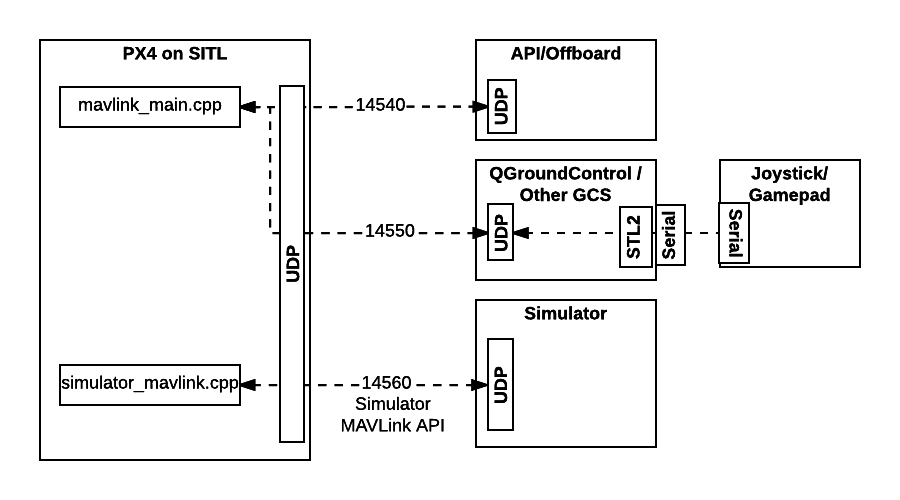
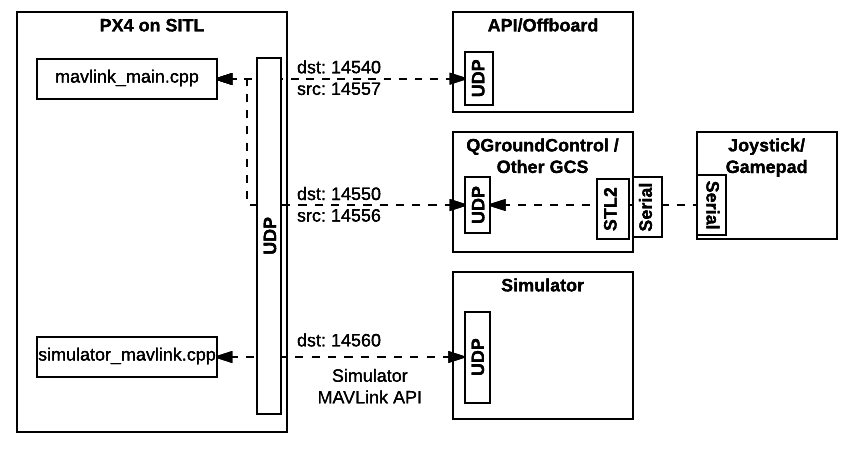
Update SITL env doc and tidy explanations

Changed region(s): [[0.0, 0.0, 0.972, 0.9559]]

diff --git a/en/simulation/README.md b/en/simulation/README.md
@@ -20,8 +20,11 @@ Simulator |Description
 [AirSim](../simulation/airsim.md) | A cross platform simulator that provides physically and visually realistic simulations. This simulator is resource intensive, and requires a very significantly more powerful computer than the other simulators described here. <p><strong>Supported Vehicles:</strong> Iris (MultiRotor model and a configuration for PX4 QuadRotor in the X configuration).</p>
 [XPlane](../simulation/hitl.md) (HITL only)| A comprehensive and powerful fixed-wing flight simulator that offers very realistic flight models.<br><p><strong>Supported Vehicles:</strong> Plane</p>
 
+Instructions for how to setup and use the simulators are in the topics linked above.
 
-Instructions for how to setup and use the simulators are in the topics linked above. Below is a "somewhat generic" description of how the simulation infrastructure works. It is not required to *use* the simulators. 
+
+---
+The remainder of this topic is a "somewhat generic" description of how the simulation infrastructure works. It is not required to *use* the simulators.
 
 
 ## Simulator MAVLink API
@@ -30,7 +33,7 @@ All simulators communicate with PX4 using the Simulator MAVLink API. This API de
 
 ![Simulator MAVLink API](../../assets/simulation/px4_simulator_messages.png)
 
-> **Note** A simulator build of PX4 (both SITL and HITL) includes [simulator_mavlink.cpp](https://github.com/PX4/Firmware/blob/master/src/modules/simulator/simulator_mavlink.cpp) to handle these messages. Sensor data from the simulator is written to a dummy driver and appears "real" to PX4. All motors / actuators are blocked, but internal software is fully operational.
+> **Note** A simulator build of PX4 (both SITL and HITL) uses [simulator_mavlink.cpp](https://github.com/PX4/Firmware/blob/master/src/modules/simulator/simulator_mavlink.cpp) to handle these messages. Sensor data from the simulator is written to a dummy driver and appears "real" to PX4. All motors / actuators are blocked, but internal software is fully operational.
 
 The messages are described below (see links for specific detail).
 
@@ -45,14 +48,24 @@ Message | Direction | Description
 [HIL_RC_INPUTS_RAW](http://mavlink.org/messages/common#HIL_RC_INPUTS_RAW) | Sim to PX4 | The RAW values of the RC channels received.
 
 
+## Standard MAVLink UDP Ports
+
+PX4 defines a number of standard UDP broadcast ports that ground control stations (e.g. *QGroundControl*, Offboard APIs and simulators) can listen to in order to connect to the autopilot:
+
+- Offboard APIs: 14540
+- Ground Control Stations: 14550  (*QGroundControl* automatically connects to PX4 broadcasting on this port).
+- Simulators: 14560
+
+> **Note** The "connection model" is that PX4 broadcasts to the standard ports above; other systems listen and respond to the source port in the PX4 messages. The ports for the GCS and offboard APIs are set in configuration files, while the simulator broadcast port is hard-coded in the simulation MAVLink module. 
+
+
 ## SITL Simulation Environment
 
-The diagram below shows a typical SITL simulation environment for any of the supported simulators. The different parts of the system connect via UDP, and can be on either the same computer or another computer on the same network.
+The diagram below shows a typical SITL simulation environment for any of the supported simulators. The different parts of the system connect via UDP, and can be run on either the same computer or another computer on the same network.
 
-* PX4 uses a simulation-specific module to create a UDP link to the Simulator and exchange information using the [Simulator MAVLink API](#simulator-mavlink-api) described above. SITL and the Simulator can run on either the same computer or different computers on the same network.
-* PX4 uses the normal MAVLink module to set up UDP connections to *QGroundControl* (broadcasting on port 14550) and external APIs <!-- link to DroneCore here? --> (broadcasting on port 14540).
+* PX4 uses a simulation-specific module to broadcast on UDP port 14560. Simulators listen to this port, then connect and exchange information using the [Simulator MAVLink API](#simulator-mavlink-api) described above. SITL and the simulator can run on either the same computer or different computers on the same network.
+* PX4 uses the normal MAVLink module to set up UDP connections for *QGroundControl* (broadcast port: 14550, listen: 14557) and external developer APIs like DroneCore or ROS (broadcast: 14540, listen: 14557).
 * A serial connection is used to connect Joystick/Gamepad hardware via *QGroundControl*.
-* Only remote (server) ports are shown in the diagram. The client side port has to be set up and mapped to its associated remote port, but you don't need to know what those ports are to use/connect the different components.
 
 ![PX4 SITL overview](../../assets/simulation/px4_sitl_overview.png)
 
@@ -78,12 +91,12 @@ where:
 * **CONFIGURATION_TARGET:** has the format `[OS]_[PLATFORM]_[FEATURE]`
   * **OS:** posix, nuttx, qurt
   * **PLATFORM:** SITL (or in principle any platform supported among the different OS: bebop, eagle, excelsior, etc.)
-  * **FEATURE:** <!-- better name? --> A particular high level feature - for example which estimator to use (ekf2, lpe) or to run tests or simulate using a replay.
+  * **FEATURE:** A particular high level feature - for example which estimator to use (ekf2, lpe) or to run tests or simulate using a replay.
   > **Tip** You can get a list of all available configuration targets using the command:
   ```
   make list_config_targets
   ```
-* **SIMULATOR:** The simulator to launch and connect: gazebo, jmavsim, ?airsim
+* **SIMULATOR:** The simulator to launch and connect: gazebo, jmavsim <!-- , ?airsim -->
 * **INIT_FILE:** The specific init file to use for PX4 launch, within the associated configuration target. This might define the start up for a particular vehicle, or allow simulation of multiple vehicles (we explain how to determine available init files in the next section).
 
 
@@ -158,19 +171,36 @@ mavlink boot_complete
 replay trystart
 ```
 
-Note the sections that set parameters, start simulator drivers and other modules, and that set up MAVLink ports (`mavlink start `) and streaming of messages (`mavlink stream`) to the *QGroundControl* UDP port.
+Note the sections that set parameters, start simulator drivers and other modules. A few of the more relevant lines for simulation are highlighted below. 
 
-More specifically, note that two MAVLink interfaces are started. The first one sets the UDP source port (on the PX4 side) to 14556. The corresponding UDP destination port will default to 14550 (which is for QGroundControl). In other words, this MAVLink interface will broadcast on 14550/udp and listen on 14556/udp.
+1. Simulator being started:
+   ```
+   simulator start -s
+   ```
+1. PWM out mode being set for simulator:
+   ```
+   pwm_out_sim mode_pwm
+   ```
+1. Set MAVLink ports:
 
-```bash
-mavlink start -u 14556 -r 4000000
-```
+   * This line starts the MAVLink instance for connecting to offboard APIs. It broadcasts on 14540 and listens for responses on 14557. The `-m onboard` flag specifies a set of messages that will be streamed over the interface.
+      ```bash
+      mavlink start -u 14557 -r 4000000 -m onboard -o 14540
+      ```
+   * This line starts MAVLink instance for connecting to *QGroundControl*/GCSs. PX4 listens for messages on port 14556. 
+   ```bash
+   mavlink start -u 14556 -r 4000000
+   ```
+      * The broadcast port is not explicitly set (the default is used: 14550). 
+      * The messages that are streamed over this interface are specified using `mavlink stream` as shown below:
+        ```
+        mavlink stream -r 50 -s POSITION_TARGET_LOCAL_NED -u 14556
+        mavlink stream -r 50 -s LOCAL_POSITION_NED -u 14556
+        ...
+        ```
 
-See how the second MAVLink interface is set to listen on port 14557 and broadcast on port 14540. Here, the `-m onboard` argument specifies the set of MAVLink messages that will be broadcasted by this interface (whereas it is explicitly defined with the `mavlink stream` lines for the first interface):
+For more information about using the MAVLink module see [Modules Reference: Communication > MAVLink](../middleware/modules_communication.html#mavlink).
 
-```bash
-mavlink start -u 14557 -r 4000000 -m onboard -o 14540
-```
 
 ## HITL Simulation Environment
 
